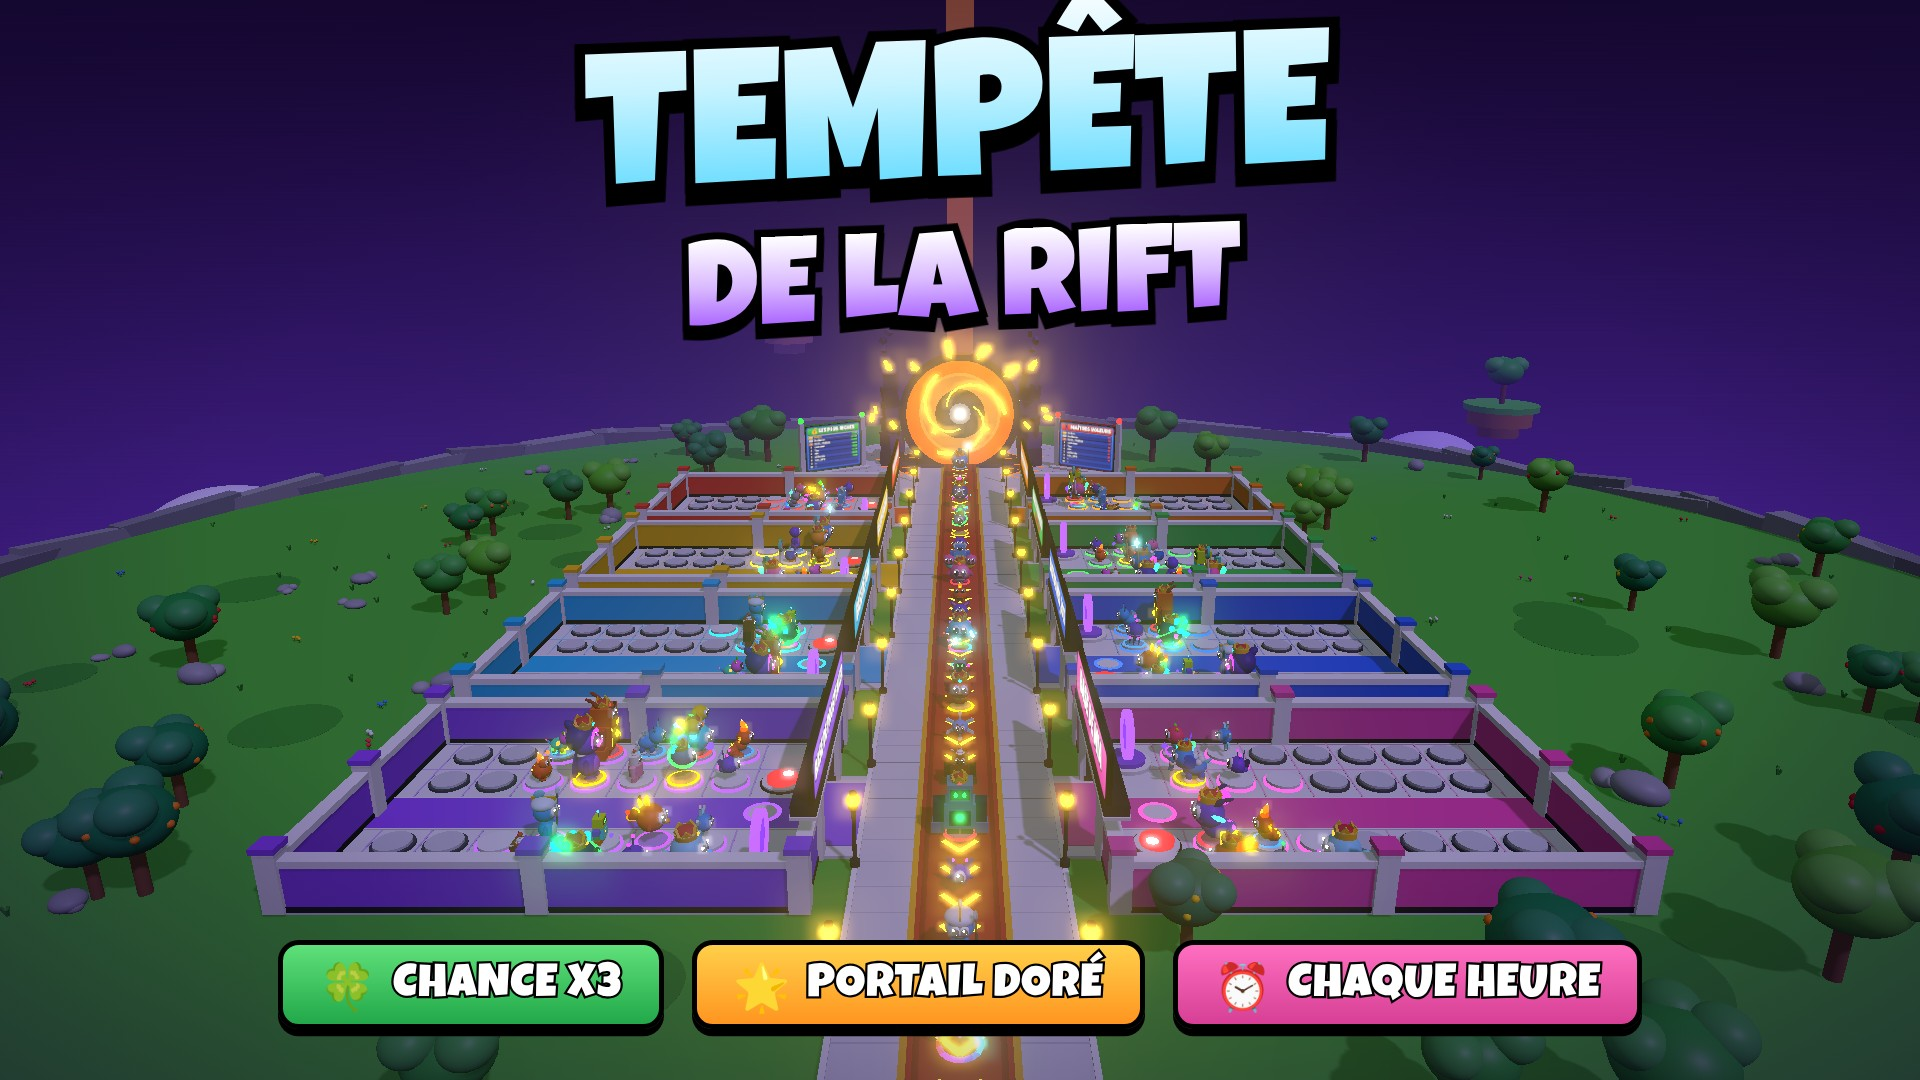
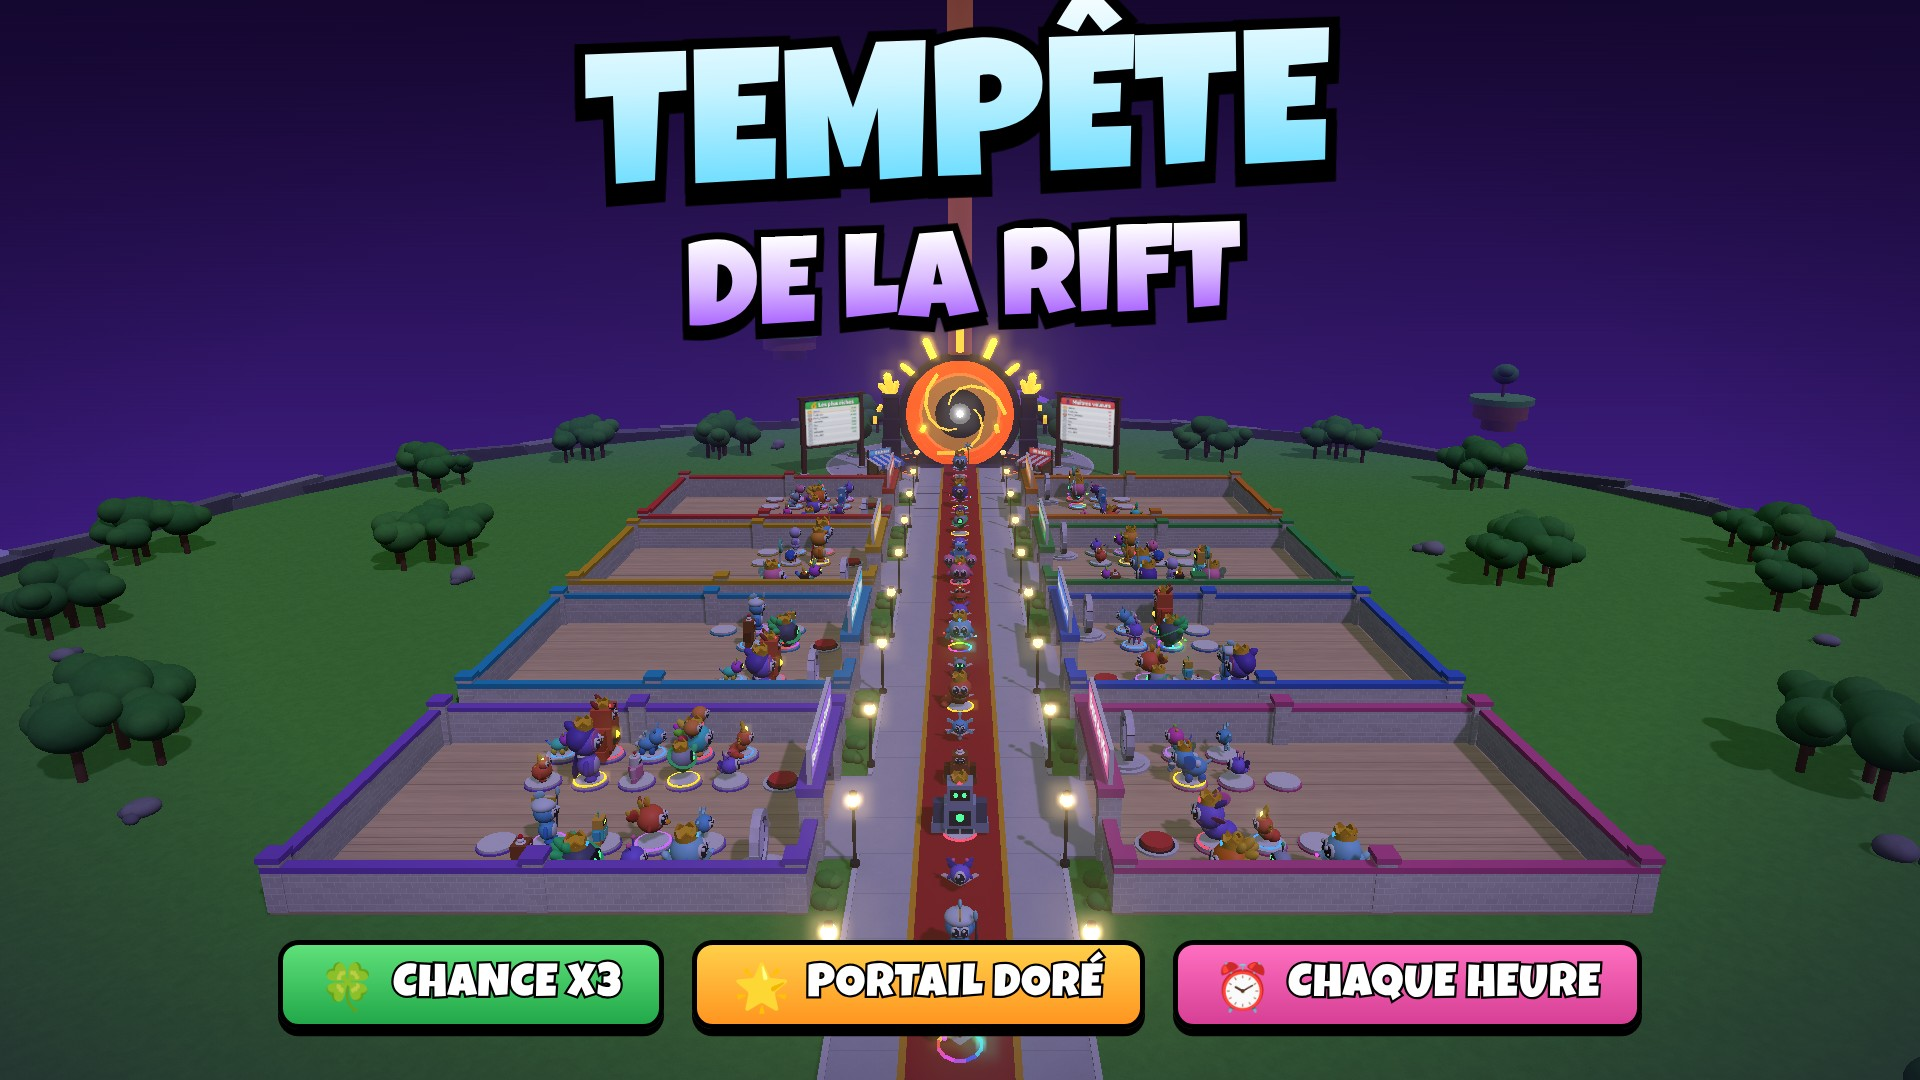
Aperçus et visuels de la page refaits sur l'état final (interface Grow a Garden, monde et créatures v3)
Claude-Session: https://claude.ai/code/session_01USkgcibH6KK7ucwJCeBsWG

diff --git a/README.md b/README.md
@@ -17,25 +17,27 @@ gauche). Cahier des charges : **[docs/ART_DIRECTION.md](docs/ART_DIRECTION.md)**
 | Vue générale | L'île flottante |
 |---|---|
 | ![Vue générale](docs/previews/monde_vue_generale.jpg) | ![Île](docs/previews/monde_ile_flottante.jpg) |
-| **Le tapis (vue joueur)** | **La Rift et les classements** |
+| **Le tapis (vue joueur)** | **La Rift, les étals et les classements** |
 | ![Tapis](docs/previews/monde_tapis.jpg) | ![Rift](docs/previews/monde_rift.jpg) |
-| **Base verrouillée (lasers)** | **Les 40 créatures (5 dimensions)** |
-| ![Base](docs/previews/monde_base.jpg) | ![Créatures](docs/previews/creatures.jpg) |
-| **Étiquettes des créatures** | **HUD** |
-| ![Étiquettes](docs/previews/creatures_etiquettes.jpg) | ![HUD](docs/previews/ui_hud.jpg) |
+| **Étal façon Grow a Garden** | **Base verrouillée (lasers)** |
+| ![Étal](docs/previews/monde_etals.jpg) | ![Base](docs/previews/monde_base.jpg) |
+| **Les 40 créatures (5 dimensions)** | **Étiquettes des créatures** |
+| ![Créatures](docs/previews/creatures.jpg) | ![Étiquettes](docs/previews/creatures_etiquettes.jpg) |
+| **HUD (disposition Grow a Garden)** | **Tiroir « Plus »** |
+| ![HUD](docs/previews/ui_hud.jpg) | ![Tiroir](docs/previews/ui_tiroir.jpg) |
+| **Mes créatures (Sac)** | **Boutique** |
+| ![Inventaire](docs/previews/ui_inventaire.jpg) | ![Boutique](docs/previews/ui_boutique.jpg) |
 | **Quêtes du jour** | **Cadeaux de session** |
 | ![Quêtes](docs/previews/ui_quetes.jpg) | ![Cadeaux](docs/previews/ui_cadeaux.jpg) |
-| **Tutoriel guidé** | **Inventaire** |
-| ![Tutoriel](docs/previews/ui_tutoriel.jpg) | ![Inventaire](docs/previews/ui_inventaire.jpg) |
-| **Index** | **Boutique** |
-| ![Index](docs/previews/ui_index.jpg) | ![Boutique](docs/previews/ui_boutique.jpg) |
+| **Index** | **Tutoriel guidé** |
+| ![Index](docs/previews/ui_index.jpg) | ![Tutoriel](docs/previews/ui_tutoriel.jpg) |
 | **Téléphone (844×390)** | **Retour après absence** |
 | ![Téléphone](docs/previews/ui_telephone.jpg) | ![Hors ligne](docs/previews/ui_hors_ligne.jpg) |
 
 > Ces images sont des **aperçus générés hors Roblox** : rendu three.js de la géométrie exacte
-> de la map et des créatures, rendu HTML de l'arbre d'interface produit par le vrai code.
-> Le rendu dans Studio diffère (éclairage Future, matériaux, bloom), mais formes, couleurs
-> et mise en page sont fidèles.
+> de la map et des créatures (matériaux Roblox reproduits, occlusion ambiante), rendu HTML de
+> l'arbre d'interface produit par le vrai code. Le rendu dans Studio diffère (éclairage Future,
+> particules, néon), mais formes, couleurs et mise en page sont fidèles.
 
 **Visuels de la page Roblox** (dossier `marketing/`) : icône 512×512 et 3 miniatures
 1920×1080, générées à partir de la vraie map et des vraies créatures. Plan de lancement,
